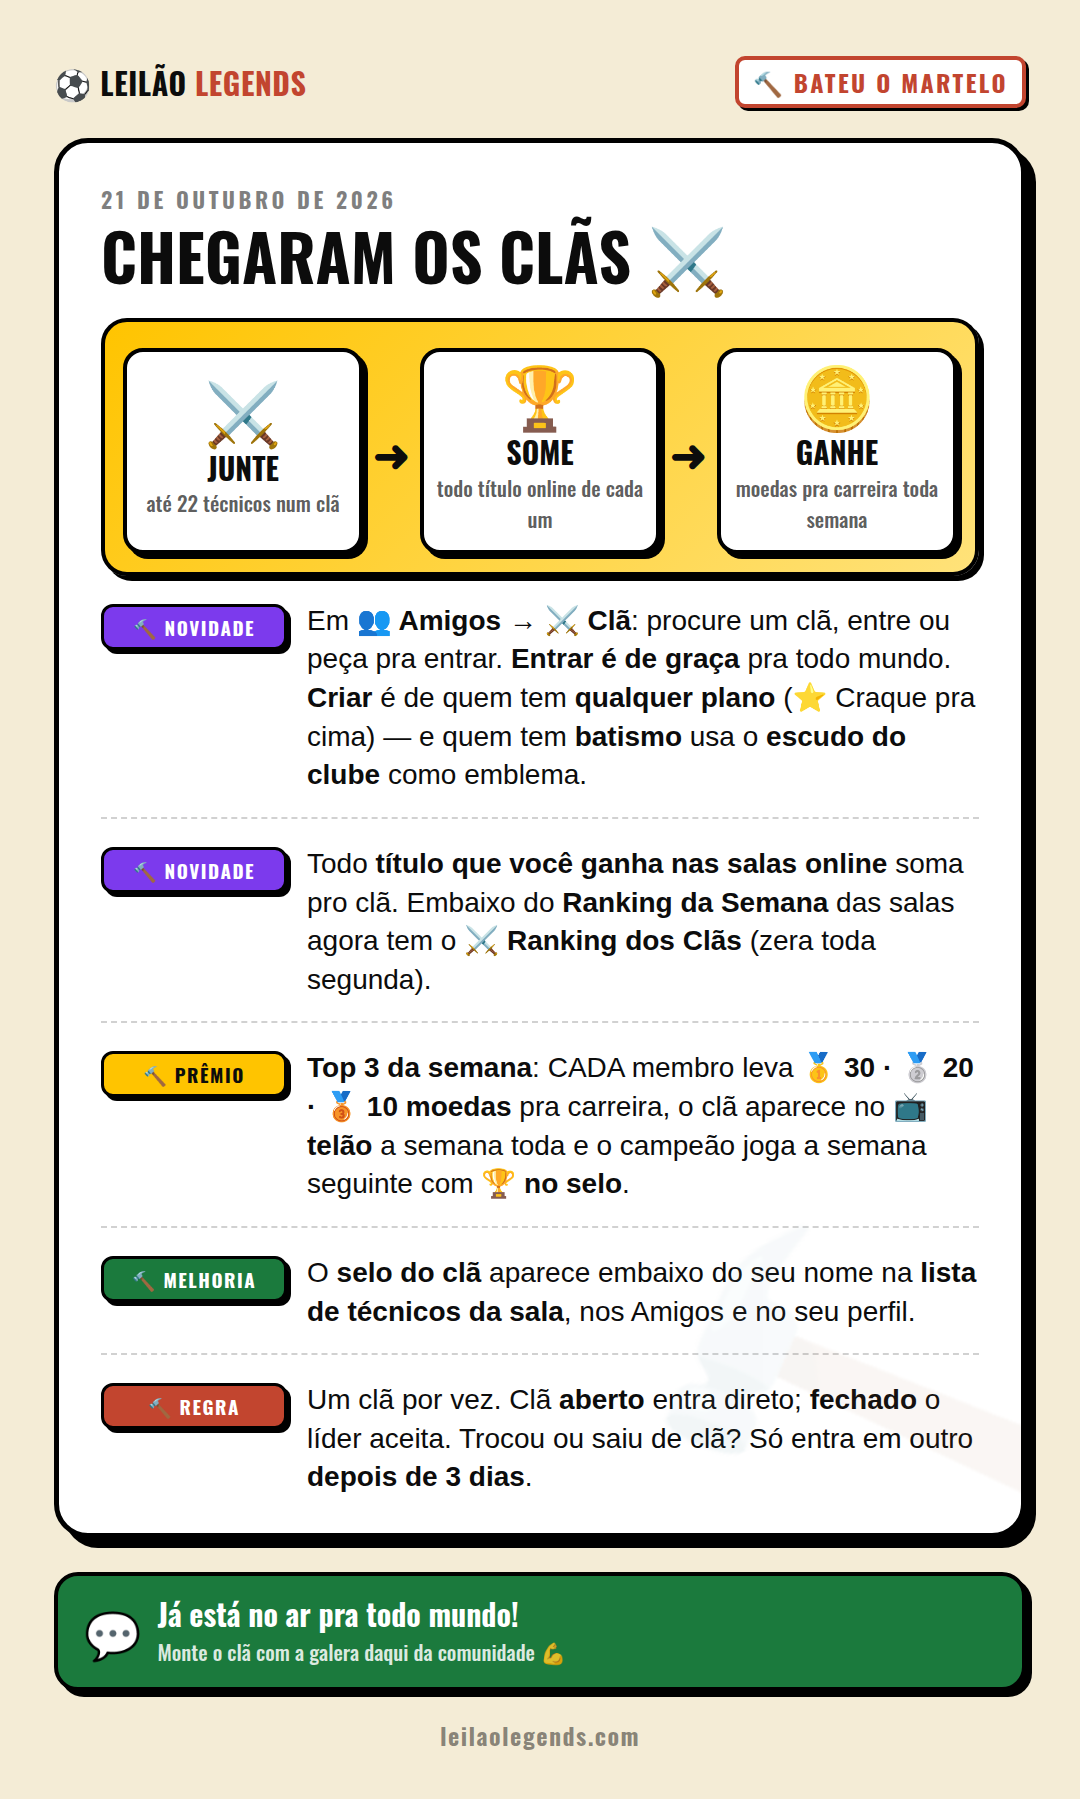
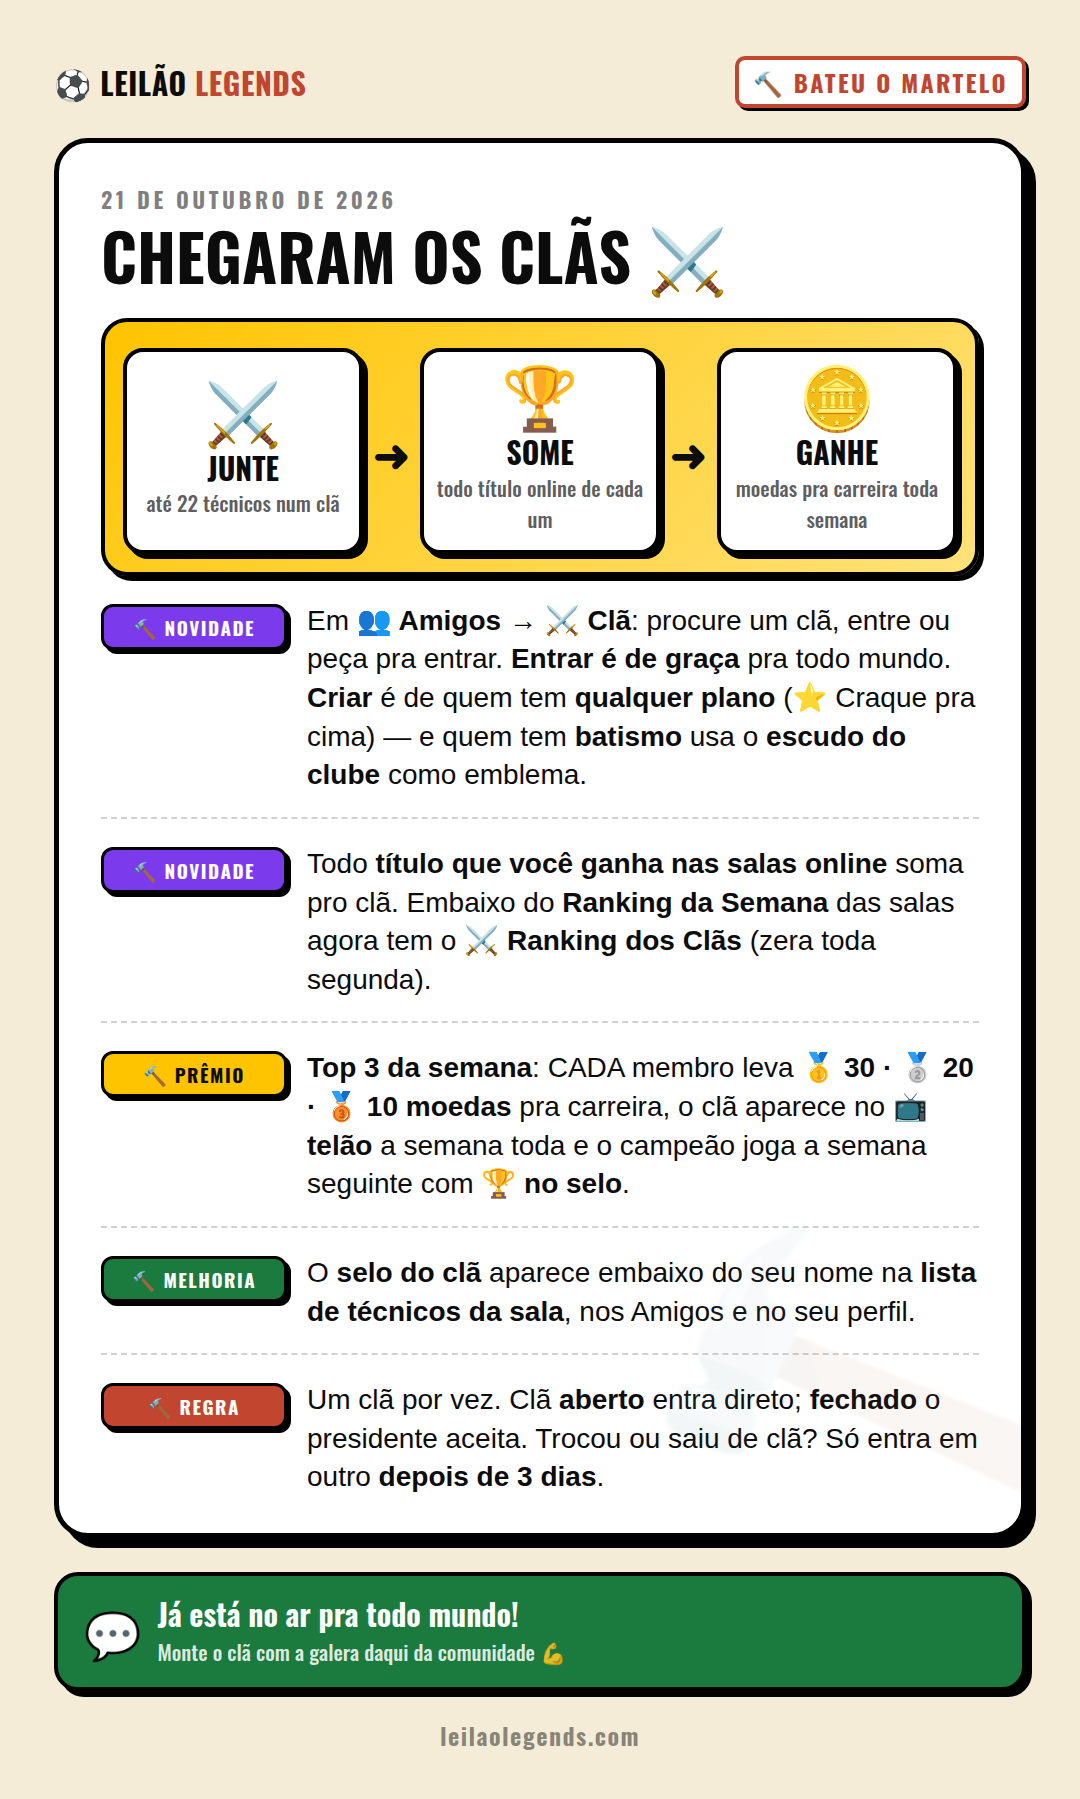
Clãs: criar o seu estando em outro (aviso de saída; presidente passa ou fecha antes) e "líder" vira "presidente" na tela
Claude-Session: https://claude.ai/code/session_018Ap1zPCMVL9XeZJN3u93ZA

Changed region(s): [[0.275, 0.7782, 0.9167, 0.8405]]

diff --git a/src/escalacao/cla.tsx b/src/escalacao/cla.tsx
@@ -130,7 +130,7 @@ export function AbaCla({ amigos, onPerfil }: { amigos: { uid: string; nome: stri
   const [pres, setPres] = useState<{ destino?: string; seguir?: () => void } | null>(null)
   const [semPlano, setSemPlano] = useState(false) // 🔒 tocou em "Criar clã" sem plano → caixa explicando + botão dos planos
   // 🔁 21/10 (Diego): já tem clã e vai pra outro (convite ou pedido) → aviso lembrando do clã atual, pra seguir ou não
-  const [troca, setTroca] = useState<{ info: TrocaInfo; destino: string; destinoEmblema: string; aberto: boolean; seguir: () => void } | null>(null)
+  const [troca, setTroca] = useState<{ info: TrocaInfo; destino: string; destinoEmblema: string; aberto: boolean; criar?: boolean; seguir: () => void } | null>(null)
   const carrega = () => { supabase.rpc('esc_cla_painel').then(({ data, error }) => setP(error || !data ? 'erro' : data as Painel), () => setP('erro')) }
   useEffect(carrega, [])
   const faz = async (rpc: string, args: Record<string, unknown>, ok?: string, destino?: { nome: string; emblema: string; aberto: boolean }) => {
@@ -141,7 +141,7 @@ export function AbaCla({ amigos, onPerfil }: { amigos: { uid: string; nome: stri
       if (!error && r.erro === 'confirmar' && destino && r.preso) setPres({ destino: destino.nome, seguir: () => { setPres(null); void faz(rpc, { ...args, p_trocar: true }, ok) } })
       else if (!error && r.erro === 'confirmar' && destino) setTroca({ info: r as TrocaInfo, destino: destino.nome, destinoEmblema: destino.emblema, aberto: destino.aberto, seguir: () => { setTroca(null); void faz(rpc, { ...args, p_trocar: true }, ok) } })
       else if (error || !r.ok) setMsg(`⚠ ${msgErro(r.erro)}`)
-      else { setMsg(r.pedido ? tr('📨 Pedido enviado — o líder do clã decide.', '📨 Request sent — the clan leader decides.') : ok ?? ''); esqueceClas(); setTela('inicio') }
+      else { setMsg(r.pedido ? tr('📨 Pedido enviado — o presidente do clã decide.', '📨 Request sent — the clan president decides.') : ok ?? ''); esqueceClas(); setTela('inicio') }
     } catch { setMsg(`⚠ ${msgErro(null)}`) } finally { setOcupado(false); carrega() }
   }
   if (p === null) return <p style={{ textAlign: 'center', fontWeight: 800, margin: '20px 0' }}>{tr('carregando…', 'loading…')}</p>
@@ -149,7 +149,7 @@ export function AbaCla({ amigos, onPerfil }: { amigos: { uid: string; nome: stri
   const aviso = msg && <p style={{ ...caixa, background: msg.startsWith('⚠') ? '#FFE3D6' : '#E9F7EE', fontSize: 12.5, fontWeight: 800 }}>{msg}</p>
   const voltar = <button style={{ ...bt('#fff', INK), marginTop: 10 }} onClick={() => setTela('inicio')}>‹ {tr('voltar', 'back')}</button>
 
-  if (tela === 'criar') return <>{voltar}<CriarCla painel={p} ocupado={ocupado} onCriar={(nome, emblema, aberto) => void faz('esc_cla_criar', { p_nome: nome, p_emblema: emblema, p_aberto: aberto }, tr('⚔ Clã criado! Chame seus amigos.', '⚔ Clan created! Invite your friends.'))} />{aviso}</>
+  if (tela === 'criar') return <>{voltar}<CriarCla painel={p} saindoDe={p.cla?.nome} ocupado={ocupado} onCriar={(nome, emblema, aberto) => void faz('esc_cla_criar', { p_nome: nome, p_emblema: emblema, p_aberto: aberto, p_trocar: !!p.cla }, tr('⚔ Clã criado! Chame seus amigos.', '⚔ Clan created! Invite your friends.'))} />{aviso}</>
   const modalTroca = <>{troca && <ConfirmaTroca {...troca} onFicar={() => setTroca(null)} />}
     {pres && p.cla && <ResolvePresidencia cla={p.cla.nome} destino={pres.destino} onFicar={() => setPres(null)}
       onPassou={() => { if (pres.seguir) pres.seguir(); else { setPres(null); void faz('esc_cla_sair', {}, tr('Presidência passada. Você saiu do clã.', 'Presidency handed over. You left the clan.')) } }}
@@ -176,7 +176,7 @@ export function AbaCla({ amigos, onPerfil }: { amigos: { uid: string; nome: stri
         <EmblemaCla emblema={c.emblema} size={58} />
         <div style={{ minWidth: 0 }}>
           <b style={{ ...OSW, fontSize: 20, color: CLA_OURO, display: 'block', lineHeight: 1.05 }}>{c.nome}{c.campeao ? ' 🏆' : ''}</b>
-          <span style={{ fontSize: 11.5, fontWeight: 700 }}>👑 {tr('líder', 'leader')}: {c.lider_nome} · {c.membros}/{CLA_MAX} · {c.aberto ? tr('🔓 aberto', '🔓 open') : tr('🔒 fechado', '🔒 closed')}</span>
+          <span style={{ fontSize: 11.5, fontWeight: 700 }}>👑 {tr('presidente', 'president')}: {c.lider_nome} · {c.membros}/{CLA_MAX} · {c.aberto ? tr('🔓 aberto', '🔓 open') : tr('🔒 fechado', '🔒 closed')}</span>
         </div>
       </div>
       <div style={{ display: 'grid', gridTemplateColumns: 'repeat(3,1fr)', gap: 6, marginTop: 8 }}>
@@ -205,12 +205,19 @@ export function AbaCla({ amigos, onPerfil }: { amigos: { uid: string; nome: stri
         <button style={{ ...bt(ROXO, '#fff'), flex: 1 }} onClick={() => setTela('chamar')}>📣 {tr('Chamar amigo pro clã', 'Invite a friend')}</button>
         <button style={bt('#fff', INK)} onClick={() => setTela('ranking')}>🏆 {tr('Ranking', 'Ranking')}</button>
         <button style={bt('#fff', INK)} onClick={() => setTela('procurar')}>🔎 {tr('Outros clãs', 'Other clans')}</button>
+        {/* ⚔ 21/10 (Diego): criar o seu estando em outro = sair do atual, com o mesmo aviso (presidente: passar ou fechar antes) */}
+        <button style={bt('#fff', INK)} onClick={() => {
+          if (!p.pode_criar) { setSemPlano(v => !v); return }
+          if (souLider(c) && c.membros > 1) { setPres({ destino: tr('seu clã novo', 'your new clan'), seguir: () => { setPres(null); setTela('criar') } }); return }
+          setTroca({ info: { erro: 'confirmar', atual: c.nome, atual_emblema: c.emblema, lider: souLider(c), sozinho: c.membros <= 1 }, destino: tr('seu clã novo', 'your new clan'), destinoEmblema: 'e:0', aberto: true, criar: true, seguir: () => { setTroca(null); setTela('criar') } })
+        }}>⚔ {tr('Criar meu clã', 'Create my clan')}</button>
         {souLider(c) && <button disabled={ocupado} style={bt('#fff', INK)} onClick={() => void faz('esc_cla_aberto', { p_aberto: !c.aberto })}>{c.aberto ? tr('🔒 fechar', '🔒 close') : tr('🔓 abrir', '🔓 open')}</button>}
         <button disabled={ocupado} style={bt('#fff', RED)} onClick={() => {
           if (souLider(c) && c.membros > 1) { setPres({}); return }
           if (window.confirm(souLider(c) ? tr('Sair do clã? Você é o único: o clã fecha. Você só entra em outro clã daqui a 3 dias.', 'Leave the clan? You are the only one: the clan closes. You can join another only in 3 days.') : tr('Sair do clã? Você só entra em outro clã daqui a 3 dias.', 'Leave the clan? You can join another only in 3 days.'))) void faz('esc_cla_sair', {}, tr('Você saiu do clã.', 'You left the clan.'))
         }}>{tr('sair', 'leave')}</button>
       </div>
+      {semPlano && !p.pode_criar && <CriarSemPlano onProcurar={() => { setSemPlano(false); setTela('procurar') }} />}
       <p style={{ fontSize: 11, color: '#666', fontWeight: 700, margin: '8px 2px 0', lineHeight: 1.4 }}>{tr('Todo título que você ganha nas salas online soma pro clã. O clã campeão da semana leva 🏆 no selo de cada membro na semana seguinte. Conversa continua no zap.', 'Every title you win in online rooms adds to the clan. The champion clan of the week gets 🏆 on every member’s badge the following week. Chat stays on WhatsApp.')}</p>
     </> : <>
       <div style={{ ...caixa, textAlign: 'center' }}>
@@ -236,8 +243,8 @@ function CriarSemPlano({ onProcurar }: { onProcurar: () => void }) {
       <p style={{ fontSize: 30, margin: 0 }}>⚔🔒</p>
       <p style={{ ...OSW, fontSize: 17, margin: '2px 0 6px', color: CLA_OURO }}>{tr('Criar clã é de quem tem plano', 'Creating a clan needs a plan')}</p>
       <p style={{ fontSize: 12.5, fontWeight: 700, margin: '0 0 8px', lineHeight: 1.4, color: '#eee' }}>{tr(
-        `Com qualquer plano (⭐ Craque, 👑 Lenda, 🖋 Batismo ou Fundador) você cria o seu clã, vira o líder 👑 e chama até ${CLA_MAX - 1} amigos. Se o seu plano tem escudo de batismo, ele vira o emblema do clã.`,
-        `With any plan (⭐ Star, 👑 Legend, 🖋 Named club or Founder) you create your clan, become the leader 👑 and invite up to ${CLA_MAX - 1} friends. If your plan has a named-club crest, it becomes the clan emblem.`)}</p>
+        `Com qualquer plano (⭐ Craque, 👑 Lenda, 🖋 Batismo ou Fundador) você cria o seu clã, vira o presidente 👑 e chama até ${CLA_MAX - 1} amigos. Se o seu plano tem escudo de batismo, ele vira o emblema do clã.`,
+        `With any plan (⭐ Star, 👑 Legend, 🖋 Named club or Founder) you create your clan, become the president 👑 and invite up to ${CLA_MAX - 1} friends. If your plan has a named-club crest, it becomes the clan emblem.`)}</p>
       <ApoieButton startScreen="choice" trigger={open => (
         <button onClick={open} style={{ ...bt(GOLD, INK), width: '100%', padding: 11, fontSize: 15 }}>⭐ {tr('Ver os planos', 'See the plans')}</button>
       )} />
@@ -288,7 +295,7 @@ function ResolvePresidencia({ cla, destino, onFicar, onPassou, onFechou }: { cla
   )
 }
 // 🔁 o aviso de troca (21/10): o clã de agora × o novo, o que acontece com a liderança, a espera de 3 dias e os dois botões
-function ConfirmaTroca({ info, destino, destinoEmblema, aberto, seguir, onFicar }: { info: TrocaInfo; destino: string; destinoEmblema: string; aberto: boolean; seguir: () => void; onFicar: () => void }) {
+function ConfirmaTroca({ info, destino, destinoEmblema, aberto, criar, seguir, onFicar }: { info: TrocaInfo; destino: string; destinoEmblema: string; aberto: boolean; criar?: boolean; seguir: () => void; onFicar: () => void }) {
   return (
     <div role="dialog" aria-modal="true" onClick={onFicar} style={{ position: 'fixed', inset: 0, zIndex: 9000, background: 'rgba(12,12,12,.6)', display: 'flex', alignItems: 'center', justifyContent: 'center', padding: 16 }}>
       <div onClick={e => e.stopPropagation()} style={{ width: '100%', maxWidth: 380, background: '#F4ECD6', color: INK, border: `4px solid ${INK}`, borderRadius: 18, boxShadow: `5px 5px 0 ${INK}`, padding: 16 }}>
@@ -298,14 +305,16 @@ function ConfirmaTroca({ info, destino, destinoEmblema, aberto, seguir, onFicar 
           <span style={{ ...OSW, fontSize: 24 }}>➜</span>
           <div style={{ textAlign: 'center', width: 120 }}><EmblemaCla emblema={destinoEmblema} size={48} /><b style={{ ...OSW, display: 'block', fontSize: 13, marginTop: 4, overflow: 'hidden', textOverflow: 'ellipsis', whiteSpace: 'nowrap' }}>{destino}</b><span style={{ fontSize: 10.5, fontWeight: 800, color: '#7a6b4a' }}>{tr('novo clã', 'new clan')}</span></div>
         </div>
-        <p style={{ fontSize: 13, fontWeight: 800, margin: '12px 0 6px', lineHeight: 1.35 }}>{tr(`Você já participa do clã ${info.atual}.`, `You are already in the ${info.atual} clan.`)} {aberto
+        <p style={{ fontSize: 13, fontWeight: 800, margin: '12px 0 6px', lineHeight: 1.35 }}>{tr(`Você já participa do clã ${info.atual}.`, `You are already in the ${info.atual} clan.`)} {criar
+          ? tr(`Pra criar o seu clã, você sai do ${info.atual}.`, `To create your own clan, you leave ${info.atual}.`)
+          : aberto
           ? tr(`Se seguir, você sai do ${info.atual} e entra no ${destino}.`, `If you go on, you leave ${info.atual} and join ${destino}.`)
-          : tr(`Se seguir, o pedido vai pro líder do ${destino}. Quando ele aceitar, você sai do ${info.atual} na hora.`, `If you go on, the request goes to the ${destino} leader. When they accept, you leave ${info.atual} right away.`)}</p>
+          : tr(`Se seguir, o pedido vai pro presidente do ${destino}. Quando ele aceitar, você sai do ${info.atual} na hora.`, `If you go on, the request goes to the ${destino} president. When they accept, you leave ${info.atual} right away.`)}</p>
         {info.lider && <p style={{ fontSize: 12, fontWeight: 700, margin: '0 0 6px', background: '#FFF3C4', border: `2px solid ${INK}`, borderRadius: 9, padding: '6px 8px' }}>👑 {info.sozinho
           ? tr(`Você é o único do ${info.atual}: ele fecha.`, `You are the only one in ${info.atual}: it closes.`)
           : tr(`Você é o presidente: antes, passe a presidência ou feche o clã.`, `You are the president: first hand over the presidency or close the clan.`)}</p>}
         <p style={{ fontSize: 11.5, fontWeight: 700, color: '#7a4d00', margin: '0 0 12px' }}>⏳ {tr('Depois de trocar, você só troca de novo daqui a 3 dias.', 'After switching, you can switch again only in 3 days.')}</p>
-        <button onClick={seguir} style={{ ...bt(GREEN, '#fff'), width: '100%', padding: 11, fontSize: 14, whiteSpace: 'normal' }}>{aberto ? tr(`✅ Sim, ir pro ${destino}`, `✅ Yes, go to ${destino}`) : tr(`📨 Sim, pedir pra entrar no ${destino}`, `📨 Yes, ask to join ${destino}`)}</button>
+        <button onClick={seguir} style={{ ...bt(GREEN, '#fff'), width: '100%', padding: 11, fontSize: 14, whiteSpace: 'normal' }}>{criar ? tr(`✅ Sim, sair e criar o meu`, `✅ Yes, leave and create mine`) : aberto ? tr(`✅ Sim, ir pro ${destino}`, `✅ Yes, go to ${destino}`) : tr(`📨 Sim, pedir pra entrar no ${destino}`, `📨 Yes, ask to join ${destino}`)}</button>
         <button onClick={onFicar} style={{ ...bt('#fff', INK), width: '100%', padding: 10, fontSize: 13, marginTop: 8, whiteSpace: 'normal' }}>{tr(`Não, ficar no ${info.atual}`, `No, stay in ${info.atual}`)}</button>
       </div>
     </div>
@@ -318,7 +327,7 @@ supabase.auth.onAuthStateChange((_e, s) => { meuUidAtual = s?.user?.id ?? null; 
 const meuUid = (_c: unknown) => meuUidAtual
 const souLider = (c: ClaJson) => !!meuUidAtual && c.lider === meuUidAtual
 
-function CriarCla({ painel, ocupado, onCriar }: { painel: Painel; ocupado: boolean; onCriar: (nome: string, emblema: string, aberto: boolean) => void }) {
+function CriarCla({ painel, saindoDe, ocupado, onCriar }: { painel: Painel; saindoDe?: string; ocupado: boolean; onCriar: (nome: string, emblema: string, aberto: boolean) => void }) {
   const [nome, setNome] = useState('')
   const [emb, setEmb] = useState(painel.escudo ? 'escudo' : 'e:0')
   const [aberto, setAberto] = useState(true)
@@ -327,6 +336,7 @@ function CriarCla({ painel, ocupado, onCriar }: { painel: Painel; ocupado: boole
   ]
   return <div style={caixa}>
     <p style={h3}>⚔ {tr('Criar clã', 'Create clan')}</p>
+    {saindoDe && <p style={{ fontSize: 12, fontWeight: 800, margin: '0 0 8px', background: '#FFE3D6', border: `2px solid ${INK}`, borderRadius: 9, padding: '6px 8px' }}>🚪 {tr(`Ao criar, você sai do ${saindoDe}.`, `When you create it, you leave ${saindoDe}.`)}</p>}
     <p style={{ ...OSW, fontSize: 11, margin: '0 0 4px' }}>{tr('Nome do clã', 'Clan name')}</p>
     <input value={nome} onChange={e => setNome(e.target.value)} maxLength={20} placeholder={tr('ex.: Martelo de Ouro', 'e.g. Golden Hammer')}
       style={{ width: '100%', boxSizing: 'border-box', border: `2px solid ${INK}`, borderRadius: 9, padding: '8px 10px', fontSize: 14, fontWeight: 700, color: INK, background: '#fff' }} />

diff --git a/docs/pendencias.md b/docs/pendencias.md
@@ -616,6 +616,10 @@ recarrega com a home limpa (`temJanelaAberta()` = nenhum elemento fixo cobrindo 
   presidência (lista do clã; SÓ quem tem plano pode receber) ou 🗑 Fechar o clã (solta todo mundo sem espera). Sozinho no clã: sair/
   trocar fecha o clã, como antes. A coroa NÃO passa mais sozinha pro mais antigo. Migration `20261021100000_clas_presidente.sql`,
   testado no banco. Foto: `scripts/mockups/clas-presidente.png`.
+  🔁 21/10: **CRIAR CLÃ ESTANDO EM OUTRO** (*"pra ele criar clã ele precisa sair do clã onde ele está e aí também aparece o banner"*):
+  botão "⚔ Criar meu clã" dentro do clã → aviso "você sai do X" (presidente com gente: passar/fechar antes) → tela de criar com
+  "🚪 Ao criar, você sai do X"; o banco sai e cria na mesma hora (`esc_cla_criar(..., p_trocar)`, migration
+  `20261021110000_clas_criar_saindo.sql`). E na tela **"líder" virou "presidente"** (pedido dele).
 - ⏳ **🚩 TORCIDAS (ideia 19/10, no lugar de "clãs")** — mockup enviado, ESPERANDO OK: `scripts/mockups/torcidas.png`. Cada um
   entra na torcida de UM clube batizado (dono já nasce na dele; troca 1x por mês), todo título online soma pra torcida, ranking
   semanal das torcidas, ⚔ clássico da semana (2 torcidas sorteadas), selinho da torcida na sala. Só placar, sem chat (zap) e sem
